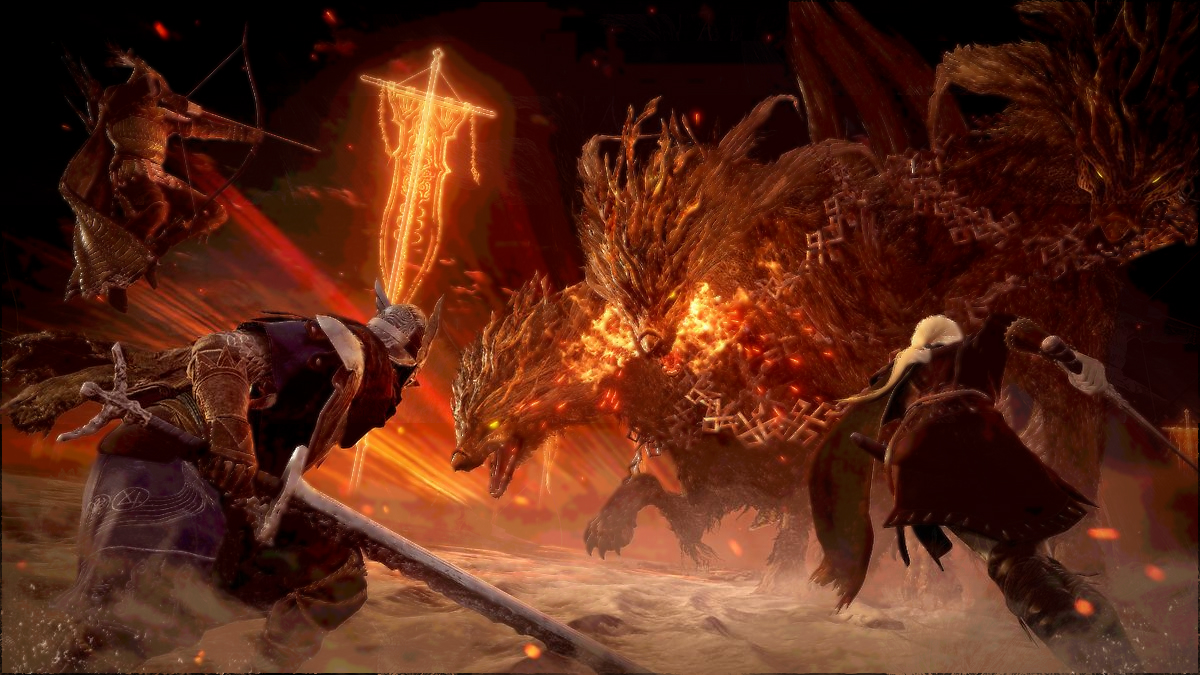
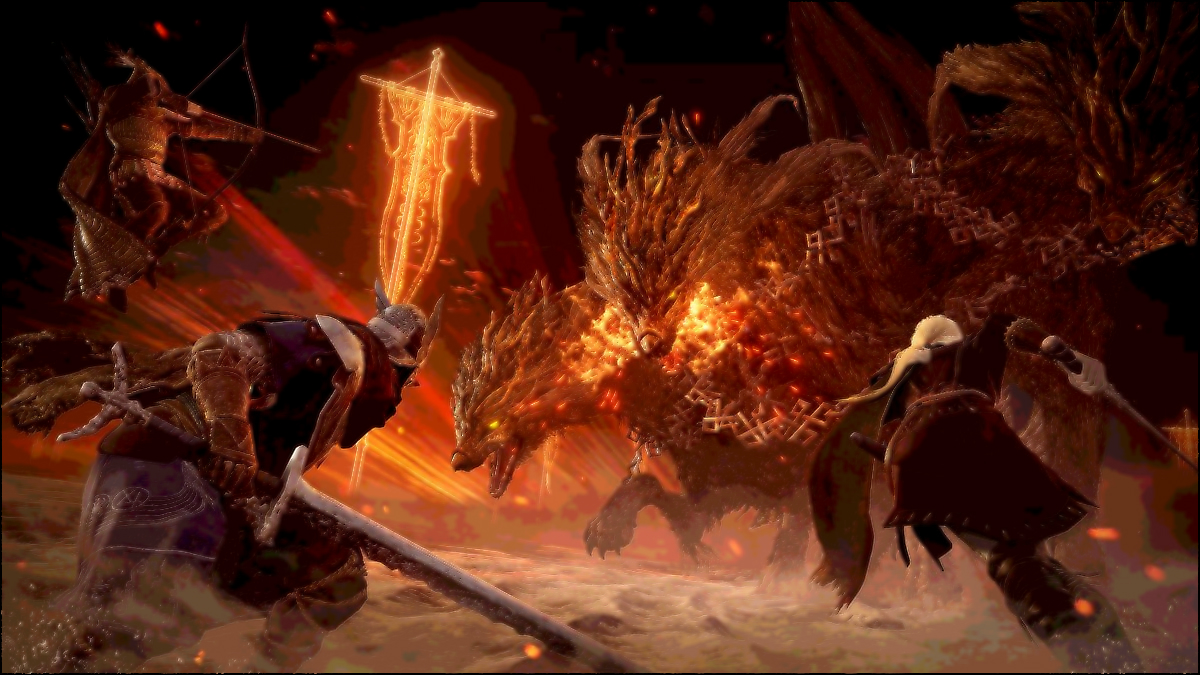
Add images

diff --git a/README.md b/README.md
@@ -1,2 +1,24 @@
 # ImageEffects
  simple image effects on jpgs
+
+Implements a variety of image processing effects.
+Performance is not optimised, and is potentially an area for
+investigating SIMD or implementing parallel algorithms for multithreading.
+
+Pixel Sorting:
+![sorted.jpg](images/sorted.jpg)
+
+Palette Restriction
+![palette.jpg](images/palette.jpg)
+
+Pixelation
+![pixelated.jpg](images/pixelated.jpg)
+
+Pixelation + Palette Restriction
+![pixelPalette.jpg](images/pixelPalette.jpg)
+
+Edge Detection
+![edges.jpg](images/edges.jpg)
+
+Box Blur + Edge Sharpening
+![blurSharp.jpg](images/blurSharp.jpg)
